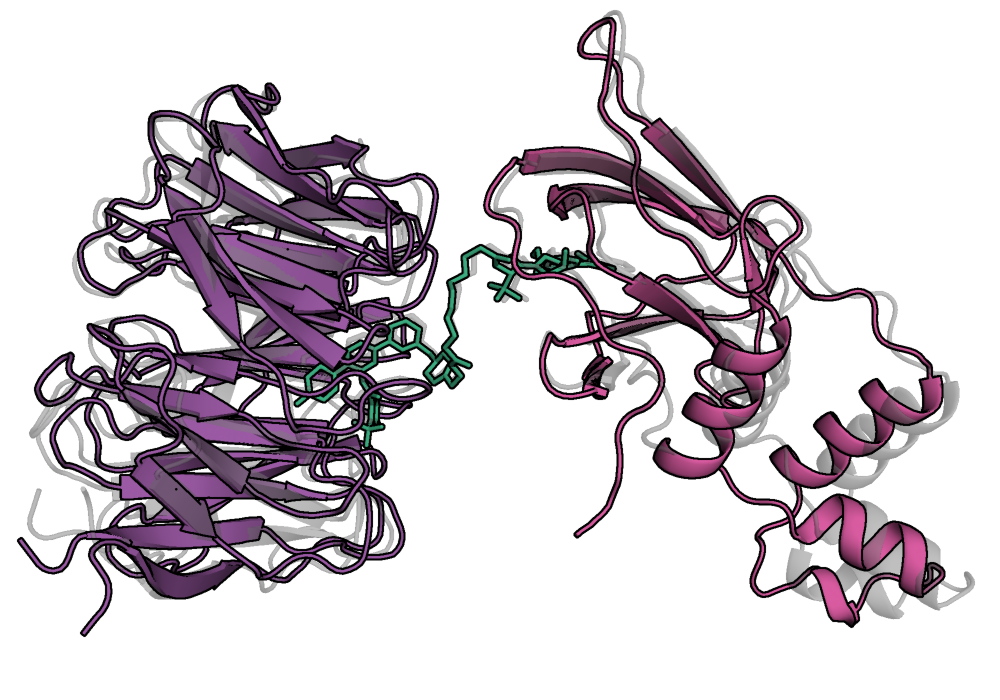
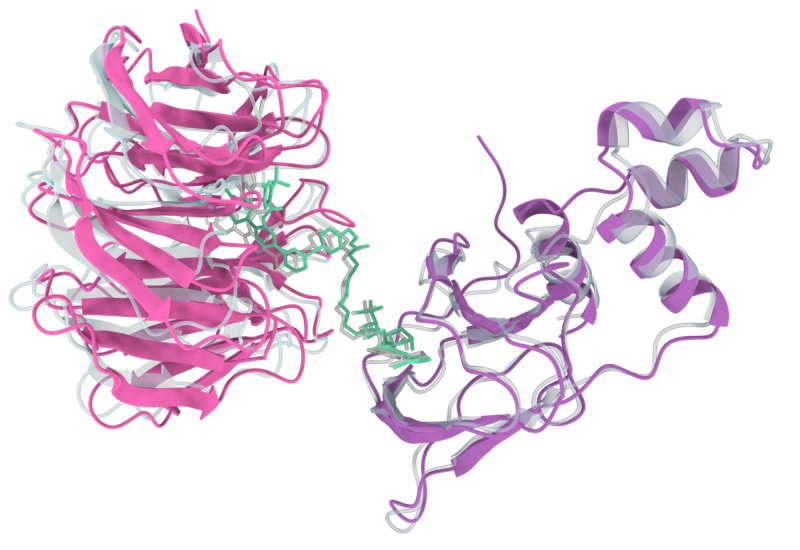
Replace showcase image

diff --git a/docs/showcase.py b/docs/showcase.py
@@ -1,5 +1,4 @@
 from pathlib import Path
-import biotite.interface.pymol as pymol_interface
 import biotite.structure as struc
 import biotite.structure.io.pdbx as pdbx
 import matplotlib
@@ -46,30 +45,6 @@ def setup_matplotlib(theme):
         plt.style.use(["dark_background"])
     matplotlib.rcParams["figure.dpi"] = 300
     matplotlib.rcParams["font.sans-serif"] = "Geologica"
-
-
-def setup_pymol():
-    # Set style of PyMOL images
-    pymol_interface.cmd.bg_color("white")
-    pymol_interface.cmd.set("depth_cue", 0)
-    pymol_interface.cmd.set("ray_shadows", 0)
-    pymol_interface.cmd.set("spec_reflect", 0)
-    pymol_interface.cmd.set("ray_trace_mode", 1)
-    pymol_interface.cmd.set("ray_trace_disco_factor", 1)
-    pymol_interface.cmd.set("cartoon_side_chain_helper", 1)
-    pymol_interface.cmd.set("valence", 0)
-    pymol_interface.cmd.set("cartoon_oval_length", 1.0)
-    pymol_interface.cmd.set("label_color", "black")
-    pymol_interface.cmd.set("label_size", 30)
-    pymol_interface.cmd.set("dash_gap", 0.3)
-    pymol_interface.cmd.set("dash_width", 2.0)
-    pymol_interface.cmd.set_color("lightpurple", LIGHT_PURPLE)
-    pymol_interface.cmd.set_color("darkpurple", DARK_PURPLE)
-    pymol_interface.cmd.set_color("lightgreen", LIGHT_GREEN)
-    pymol_interface.cmd.set_color("darkgreen", DARK_GREEN)
-    pymol_interface.cmd.set_color("carbon", GRAY)
-    pymol_interface.cmd.set_color("oxygen", RED)
-    pymol_interface.cmd.set_color("nitrogen", BLUE)
 
 
 def create_metric_plot(metrics, reference, pose, output_path, theme):
@@ -123,37 +98,6 @@ def create_metric_plot(metrics, reference, pose, output_path, theme):
     fig.savefig(output_path, transparent=True)
 
 
-def visualize_systems(reference, pose, output_path):
-    setup_pymol()
-
-    pymol_reference = pymol_interface.PyMOLObject.from_structure(
-        reference, delocalize_bonds=True
-    )
-    pymol_pose = pymol_interface.PyMOLObject.from_structure(pose, delocalize_bonds=True)
-
-    peptide_mask = struc.filter_amino_acids(pose)
-    pymol_reference.show_as("cartoon")
-    pymol_reference.show("sticks", ~peptide_mask)
-    pymol_reference.color("gray")
-    pymol_reference.set("stick_transparency", 0.5)
-    pymol_reference.set("cartoon_transparency", 0.5)
-
-    peptide_mask = struc.filter_amino_acids(pose)
-    pymol_pose.show_as("cartoon", peptide_mask)
-    pymol_pose.color("darkpurple", peptide_mask & (pose.chain_id == "0"))
-    pymol_pose.color("lightpurple", peptide_mask & (pose.chain_id == "1"))
-    pymol_pose.show_as("sticks", ~peptide_mask)
-    pymol_pose.color("darkgreen", ~peptide_mask)
-    pymol_pose.orient()
-
-    # Tweak the camera
-    pymol_interface.cmd.turn("x", 180)
-    pymol_interface.cmd.move("x", -8)
-    pymol_interface.cmd.move("z", 90)
-
-    pymol_interface.cmd.png(output_path.as_posix(), width=1000, height=700, ray=True)
-
-
 if __name__ == "__main__":
     showcase_dir = Path(__file__).parent / "showcase"
 
@@ -168,4 +112,3 @@ if __name__ == "__main__":
         create_metric_plot(
             METRICS, reference, pose, showcase_dir / f"metrics{suffix}.png", theme
         )
-        visualize_systems(reference, pose, showcase_dir / f"system{suffix}.png")

diff --git a/docs/index.rst b/docs/index.rst
@@ -46,9 +46,10 @@ pepp'r documentation
         - easy extension with custom metrics
         - a command line interface and a Python API
 
-        .. grid:: 3
+        .. grid:: 2
 
             .. grid-item::
+                :columns: 4
 
                 .. button-ref:: tutorial/index
                     :color: primary
